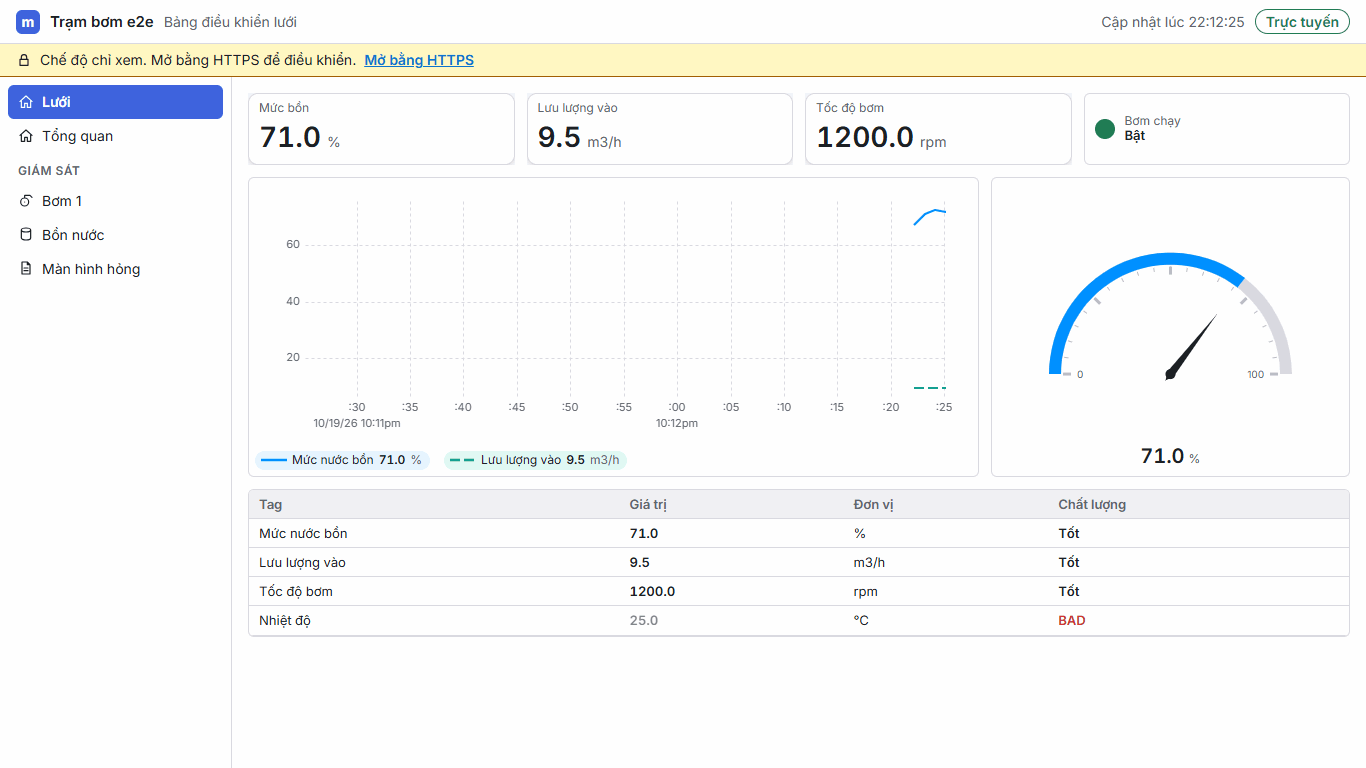
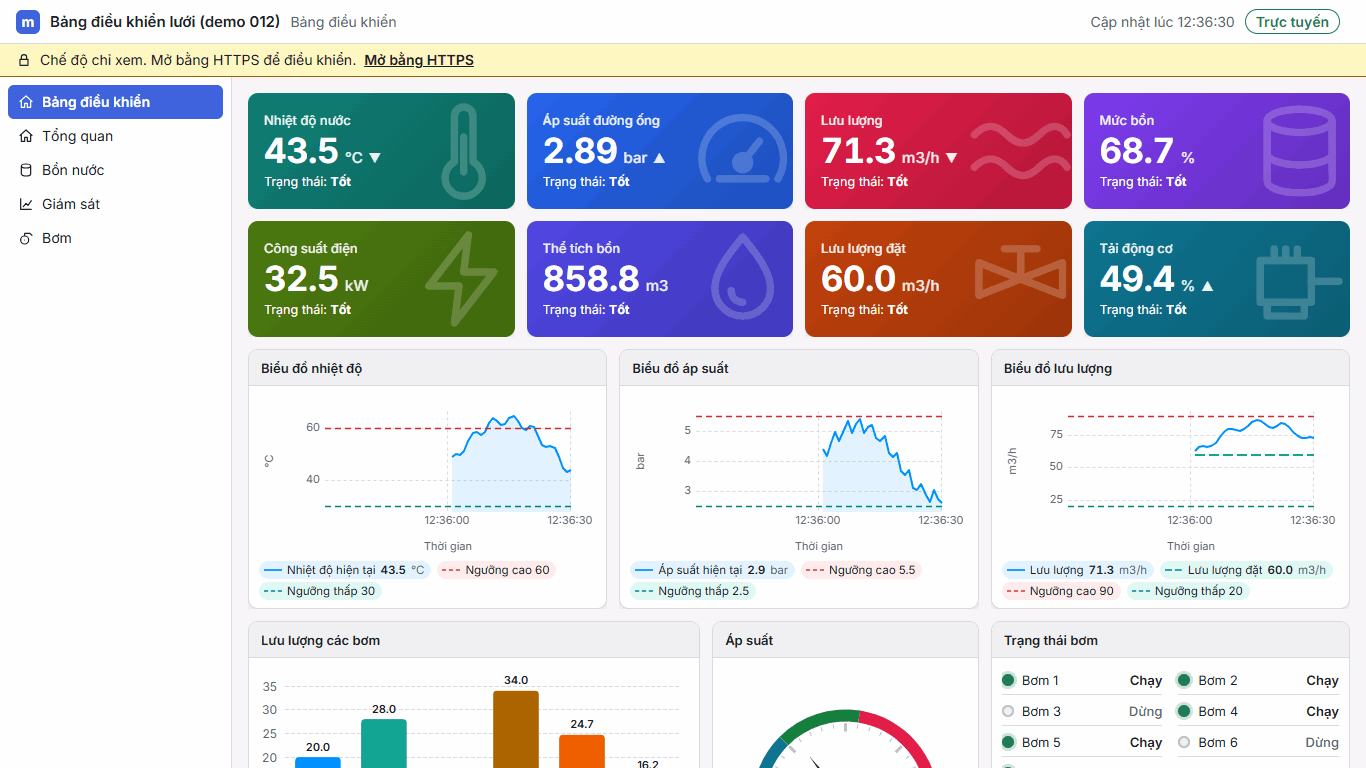
docs(014): ảnh tài liệu dashboard grid-demo (vivid, tối), trình soạn lưới và mẫu hàng

diff --git a/docs/user/engineer-guide.md b/docs/user/engineer-guide.md
@@ -128,7 +128,7 @@ Inspector có các tab **Chung**, **Hiển thị**, **Gắn Tag**, **Sự kiện
 
 Project định dạng 1.1 trở lên. Màn hình mới mặc định là **bố cục lưới**: trang gồm các **hàng**, mỗi hàng chia trên **12 cột**, mỗi **ô** chứa một component. Vị trí do ô quyết định, không nhập X, Y. (**Thêm màn hình (bố cục tự do)** vẫn có cho cách đặt theo tọa độ cũ; **Chuyển sang bố cục lưới** đổi một màn hình tự do sang lưới, có xem trước và hoàn tác.)
 
-![Trình soạn bố cục lưới: thanh Thêm hàng, thuộc tính ô (Rộng, Trống trước, Căn, Cao tối thiểu) và hàng (Tự động, Chiều cao, Khoảng cách); nút xem trước 1920, 1366, 600; trang gồm hàng 4 thẻ giá trị, hàng biểu đồ đường 8 cột và đồng hồ kim 4 cột, ô biểu đồ đang chọn](img/eng-bo-cuc-luoi.png)
+![Trình soạn bố cục lưới: thanh Thêm hàng, thuộc tính ô (Rộng, Trống trước, Căn, Cao tối thiểu) và hàng (Tự động, Chiều cao, Khoảng cách); nút xem trước 1920, 1366, 600; trang dashboard gồm hai hàng thẻ chỉ số màu và hàng ba biểu đồ có tiêu đề, một ô đang chọn](img/eng-bo-cuc-luoi.png)
 
 1. **Thêm hàng** → chọn mẫu chia cột: `12`, `6+6`, `4+4+4`, `3+3+3+3`, `8+4`, `4+8`, `3+6+3`, hoặc **Tự nhập…** (ví dụ `2+8+2`, tổng không quá 12). Cột bên phải của menu là **Mẫu hàng có sẵn widget**: **4 thẻ chỉ số** (hàng cao 116 px, bốn thẻ màu khác nhau có biểu tượng), **3 biểu đồ** (cao 260 px: đường, cột, tròn có tiêu đề), **2 biểu đồ + 1** (cao 260 px: đường 5 cột, cột 4 cột, đồng hồ 3 cột), **1 biểu đồ rộng** (cao 300 px). Widget đã đặt sẵn tên, màu; chỉ việc kéo Tag thả vào từng ô. Hàng có chiều cao cố định nên mọi ô cùng hàng cao bằng nhau.
 
@@ -159,6 +159,8 @@ Lỗi thường gặp: `E_LAYOUT_SPAN` (tổng các ô của hàng quá 12 cột
 Lỗi thường gặp: `E_FILE_MISSING` ở `props/src` (tệp ảnh của widget **Ảnh** không có trong project), `E_WIDGET_PROP` (đường dẫn ảnh không nằm trong `graphics/` hoặc không phải `.svg`, múi giờ không đúng dạng `±HH:MM`).
 
 ![Dashboard của Mẫu trạm bơm trên trang vận hành, chủ đề Sáng đa sắc: hai hàng thẻ chỉ số màu, ba biểu đồ có tiêu đề và đường ngưỡng, cột, đồng hồ, trạng thái bơm](img/op-bo-cuc-luoi.png)
+
+![Cùng dashboard ở chủ đề Tối (mẫu Dashboard tối): nền xám xanh, khung biểu đồ sáng hơn nền, thẻ chỉ số giữ màu](img/op-dashboard-toi.png)
 
 ### 6.2. Chủ đề giao diện
 
